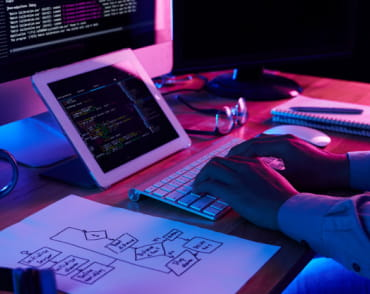
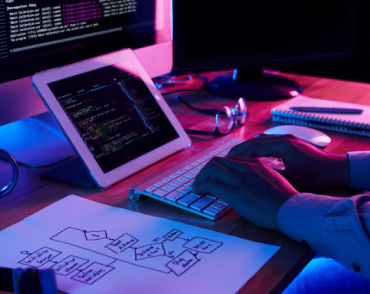
Adds adaptive styles for scope section.

diff --git a/index.html b/index.html
@@ -124,25 +124,43 @@
                 <h2 class="section__title">Чем мы занимаемся</h2>
                 <ul class="scope__list">
                     <li class="scope__item">
-                        <img src="./images/services/service1.jpg" 
-                        alt="Человек печатает на клавиатуре код" 
-                        width="370" height="294">
+                        <picture class="service__picture">
+                            <source srcset="./images/services/service1.webp 1x,
+                            ./images/services/service1@2x.webp 2x," media="(min-width: 1200px)"
+                            type="image/webp">
+                            <source srcset="./images/services/service1.jpg 1x,
+                            ./images/services/service1@2x.jpg 2x," media="(min-width: 1200px)">
+                            <img class="service__img" 
+                            src="./images/services/service1.jpg" 
+                            alt="Человек печатает на клавиатуре код">
                         <h3 class="scope__header">
                             ДЕСКТОПНЫЕ ПРИЛОЖЕНИЯ
                         </h3>
                     </li>
                     <li class="scope__item">
-                        <img src="./images/services/service2.jpg" 
-                        alt="Женщина синхронизирует мобильный с лэптопом" 
-                        width="370" height="294">
+                        <picture class="service__picture">
+                            <source srcset="./images/services/service2.webp 1x,
+                            ./images/services/service2@2x.webp 2x," media="(min-width: 1200px)"
+                            type="image/webp">
+                            <source srcset="./images/services/service2.jpg 1x,
+                            ./images/services/service2@2x.jpg 2x," media="(min-width: 1200px)">
+                            <img class="service__img" 
+                            src="./images/services/service2.jpg" 
+                            alt="Женщина синхронизирует мобильный с лэптопом">
                         <h3 class="scope__header">
                             МОБИЛЬНЫЕ ПРИЛОЖЕНИЯ
                         </h3>
                     </li>
                     <li class="scope__item">
-                        <img src="./images/services/service3.jpg" 
-                        alt="Рисование на планшете" 
-                        width="370" height="294">
+                        <picture class="service__picture">
+                            <source srcset="./images/services/service3.webp 1x,
+                            ./images/services/service3@2x.webp 2x," media="(min-width: 1200px)"
+                            type="image/webp">
+                            <source srcset="./images/services/service3.jpg 1x,
+                            ./images/services/service3@2x.jpg 2x," media="(min-width: 1200px)">
+                            <img class="service__img" 
+                            src="./images/services/service3.jpg" 
+                            alt="Рисование на планшете">
                         <h3 class="scope__header">
                             ДИЗАЙНЕРСКИЕ РЕШЕНИЯ
                         </h3>
